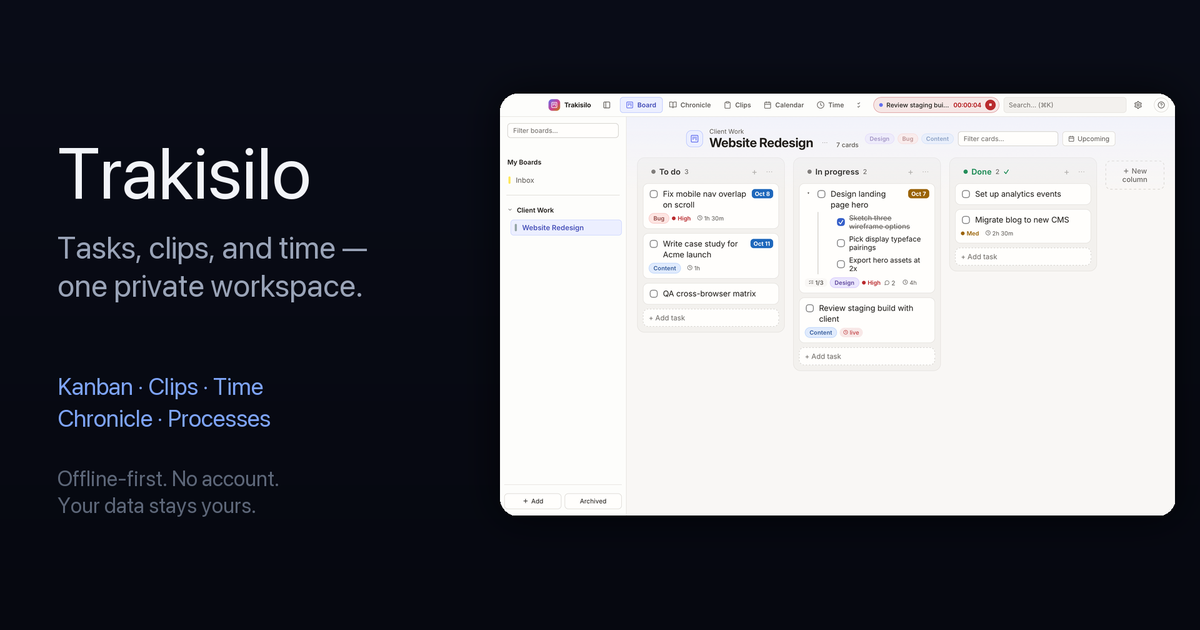
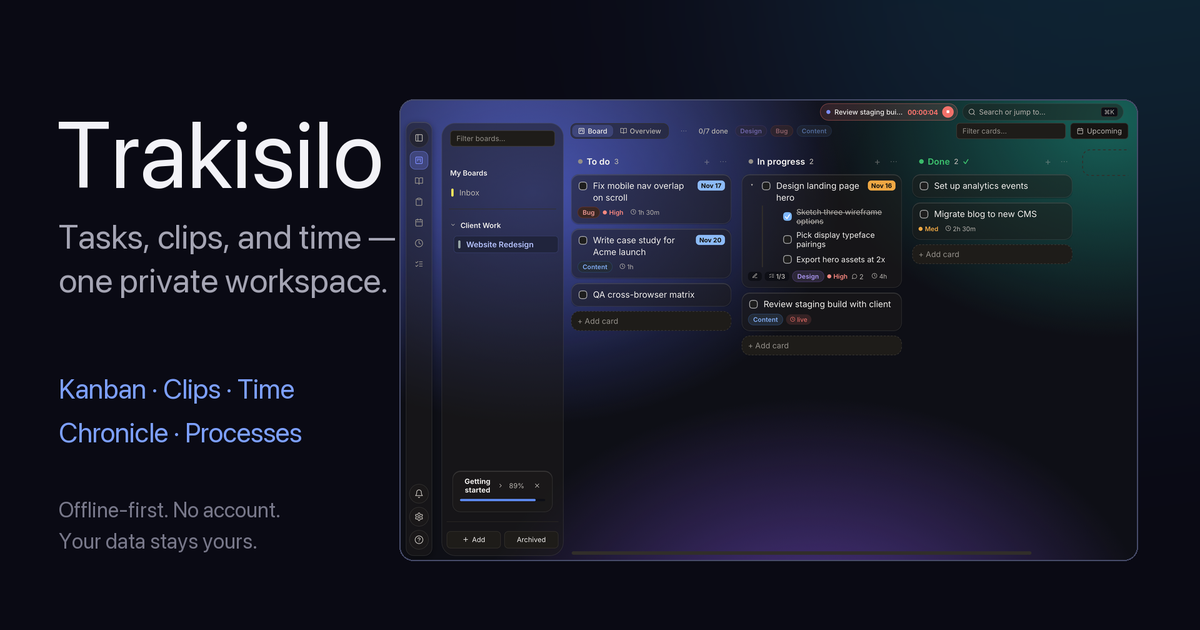
marketing review: refreshed og card to 2.0 UI; add who's-behind-it FAQ entries

diff --git a/index.html b/index.html
@@ -40,7 +40,9 @@
     {"@type": "Question", "name": "What's new in 2.0?",
      "acceptedAnswer": {"@type": "Answer", "text": "A redesigned glass interface with a new activity rail, Chronicle sections and feed sorting, comments in focused dialogs, a drag-and-drop diagram canvas, AsciiMath formulas, and smarter paste handling."}},
     {"@type": "Question", "name": "Is Trakisilo really free?",
-     "acceptedAnswer": {"@type": "Answer", "text": "Yes. All features, no subscription, no account, no trial period."}},
+     "acceptedAnswer": {"@type": "Answer", "text": "Yes. All features, no subscription, no account, no trial period — and no paid tier waiting behind any of them."}},
+    {"@type": "Question", "name": "Who makes Trakisilo?",
+     "acceptedAnswer": {"@type": "Answer", "text": "One independent developer — no company, no investors, no data to monetize. Feedback goes straight to the person who builds it."}},
     {"@type": "Question", "name": "Does it need an internet connection?",
      "acceptedAnswer": {"@type": "Answer", "text": "No. Trakisilo is fully offline — every feature works without a connection, and the app makes no network calls."}},
     {"@type": "Question", "name": "Where is my data stored?",
@@ -238,7 +240,8 @@
   </div>
   <div class="wrap faq" style="max-width:760px">
     <details><summary>What's new in 2.0?</summary><p>A redesigned glass interface with a new activity rail, Chronicle sections and feed sorting, comments in focused dialogs, a drag-and-drop diagram canvas, AsciiMath formulas, and smarter paste handling.</p></details>
-    <details><summary>Is Trakisilo really free?</summary><p>Yes. All features, no subscription, no account, no trial period.</p></details>
+    <details><summary>Is Trakisilo really free?</summary><p>Yes. All features, no subscription, no account, no trial period — and no paid tier waiting behind any of them.</p></details>
+    <details><summary>Who makes Trakisilo?</summary><p>One independent developer — no company, no investors, no data to monetize. Free and offline isn't a growth trick: the app simply has nothing to sell but itself. Feedback goes straight to the person who builds it.</p></details>
     <details><summary>Does it need an internet connection?</summary><p>No. Trakisilo is fully offline — every feature works without a connection, and the app makes no network calls.</p></details>
     <details><summary>Where is my data stored?</summary><p>In a local database on your machine. Nothing leaves your device unless you export or back it up yourself.</p></details>
     <details><summary>How do I back up or move to a new PC?</summary><p>Settings → Backup saves your whole workspace to a folder you choose. On the new machine, Settings → Restore picks it up in one step.</p></details>
